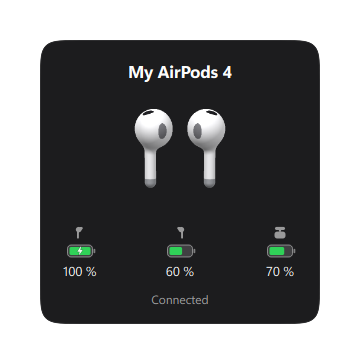
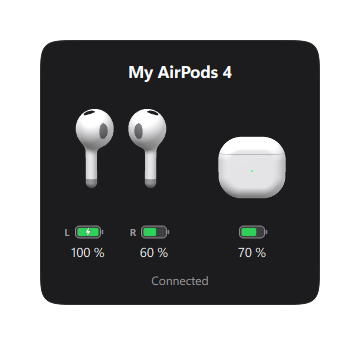
HUD: case beside the buds, each battery centred under its own picture
Like the iPhone popup: the buds on the left, the case on the right,
bottom-aligned, and under each its battery and percentage, centred. Split
buds show their two batteries side by side under the buds, with L / R
just left of each. The case is <name>_case.png from the HUD folder when
present, otherwise PodPop's own case render, front-on. The separate glyph
row is gone (the pictures say which is which); the card is 265 px tall.

diff --git a/src/podpop/ui/popup.py b/src/podpop/ui/popup.py
@@ -1,9 +1,10 @@
 """The battery HUD: a frosted dark card near the top of the screen.
 
-Top to bottom: the device name, the AirPods (they turn once as the card
-appears, then stay still), the batteries the way iOS groups them (the AirPods
-together, the case separately, each a horizontal battery with the bolt inside
-while charging), and the connection status. It sits just above the taskbar, fades in while rising 8 px, stays a
+Top to bottom: the device name; the AirPods on the left (they turn once as
+the card appears, then stay still) and the case on the right, like the iPhone
+popup; under each, centred, its battery (a horizontal battery with the bolt
+inside while charging, the percentage below; buds far apart get one each);
+and the connection status. It sits just above the taskbar, fades in while rising 8 px, stays a
 few seconds, and fades out the same way. There are no buttons; clicking the card connects the AirPods
 when they're not connected, and otherwise just closes it.
 
@@ -63,12 +64,13 @@ PADDING = (16, 20, 16, 18)  # left, top, right, bottom
 TITLE_PX = 17
 CLIP = 130  # the artwork's native size: drawn 1:1, never rescaled
 CLIP_MARGIN = (4, 10)  # above; below, to the battery row
-GLYPH = 13.0
 BOLT_PX = 9.0
 BATTERY_W, BATTERY_H, BATTERY_R = 25.0, 12.0, 3.5
 PERCENT_PX = 13
-GROUP_W = 64
-GROUP_GAP = 36
+GROUP_W = 52
+BUD_GROUP_GAP = 14  # between the L and R batteries when the buds are split
+CASE_W = 104  # the case's column, right of the 130 px buds
+ART_GAP = 14
 SPLIT_AT = 10  # buds further apart than this (in %) get a battery each, like iOS
 STATUS_PX = 12
 STATUS_GAP = 12
@@ -294,6 +296,7 @@ class _Card(QWidget):
         self.animate = True
         self._started = time.monotonic()
         self._spin = _Spin(self.update, self.spin_finished.emit)
+        self._case_art: QPixmap | None = None
         self._tick = QTimer(self, interval=33)  # drives the fallback model's single turn
         self._tick.timeout.connect(self._fallback_tick)
 
@@ -305,6 +308,8 @@ class _Card(QWidget):
     def set_view(self, view: DeviceView) -> None:
         if self.view is None or self.view.hud != view.hud:
             self._spin.load(hud.spin_for(view.hud), hud.still_for(view.hud))
+            case = hud.case_for(view.hud)
+            self._case_art = QPixmap(str(case)) if case is not None else None
         self.view = view
         self.update()
 
@@ -368,15 +373,28 @@ class _Card(QWidget):
         p.drawText(QRectF(PADDING[0], y, inner, TITLE_PX + 5), Qt.AlignmentFlag.AlignCenter, title)
         y += TITLE_PX + 5 + CLIP_MARGIN[0]
 
-        self._paint_clip(p, QRectF((w - CLIP) / 2, y, CLIP, CLIP))
+        groups = battery_groups(self.view)
+        case_group = next((g for g in groups if g.kind == "case"), None)
+        bud_groups = [g for g in groups if g.kind != "case"]
+        if case_group is not None:  # buds left, case right, the pair centred on the card
+            row_w = CLIP + ART_GAP + CASE_W
+            buds_box = QRectF((w - row_w) / 2, y, CLIP, CLIP)
+            case_box = QRectF(buds_box.right() + ART_GAP, y, CASE_W, CLIP)
+            self._paint_clip(p, buds_box)
+            self._paint_case(p, case_box)
+        else:
+            buds_box = QRectF((w - CLIP) / 2, y, CLIP, CLIP)
+            self._paint_clip(p, buds_box)
         y += CLIP + CLIP_MARGIN[1]
 
-        groups = battery_groups(self.view)
-        row_w = len(groups) * GROUP_W + (len(groups) - 1) * GROUP_GAP
-        x = (w - row_w) / 2
-        for group in groups:
+        # Each battery centred under its own artwork.
+        span = len(bud_groups) * GROUP_W + (len(bud_groups) - 1) * BUD_GROUP_GAP
+        x = buds_box.center().x() - span / 2
+        for group in bud_groups:
             self._paint_group(p, x + GROUP_W / 2, y, group)
-            x += GROUP_W + GROUP_GAP
+            x += GROUP_W + BUD_GROUP_GAP
+        if case_group is not None:
+            self._paint_group(p, case_box.center().x(), y, case_group)
         y += _battery_row_h() + STATUS_GAP
 
         p.setFont(_font(STATUS_PX, QFont.Weight.Normal))
@@ -400,11 +418,24 @@ class _Card(QWidget):
         elif self.view.family is Family.HEADPHONES:
             paint_headphones(p, box.adjusted(18, 22, -18, -22), DARK)
 
-    def _paint_group(self, p: QPainter, cx: float, top: float, group: BatteryGroup) -> None:
-        glyph_w = GLYPH * (1.55 if group.kind == "pair" else 1.0)
-        _paint_glyph(p, QRectF(cx - glyph_w / 2, top, glyph_w, GLYPH), group.kind)
+    def _paint_case(self, p: QPainter, box: QRectF) -> None:
+        """The case beside the buds: your ``<name>_case.png`` if there is one, else PodPop's own, front-on."""
+        image = self._case_art
+        if image is None:
+            sprites = turntable.frames(self.view.family, "case")
+            image = sprites[0] if sprites else None
+        if image is None or image.isNull():
+            return
+        # Bottom-aligned with the buds, a little narrower than its column so it sits like iOS.
+        scale = min((box.width() - 6) / image.width(), (box.height() * 0.62) / image.height())
+        w, h = image.width() * scale, image.height() * scale
+        target = QRectF(box.center().x() - w / 2, box.bottom() - h - box.height() * 0.08, w, h)
+        p.drawPixmap(target, image, QRectF(image.rect()))
 
-        battery = QRectF(cx - BATTERY_W / 2, top + GLYPH + 6, BATTERY_W, BATTERY_H)
+    def _paint_group(self, p: QPainter, cx: float, top: float, group: BatteryGroup) -> None:
+        battery = QRectF(cx - BATTERY_W / 2, top, BATTERY_W, BATTERY_H)
+        if group.kind in ("left", "right"):  # split buds: say which is which, just left of the battery
+            _paint_side_label(p, QRectF(battery.left() - 14, battery.top() - 2, 11, BATTERY_H + 4), group.kind)
         _paint_battery(p, battery, group.level, group.charging)
 
         p.setFont(_font(PERCENT_PX, QFont.Weight.Medium))
@@ -438,50 +469,16 @@ def _rounded(rect: QRectF, radius: float) -> QPainterPath:
     return path
 
 
-def _battery_row_h() -> float:
-    return GLYPH + 6 + BATTERY_H + 5 + PERCENT_PX + 4
-
-
-def _paint_glyph(p: QPainter, r: QRectF, kind: str) -> None:
-    """13 px silhouettes in the spirit of SF Symbols' airpods / airpods.chargingcase.
-
-    Bud: a slim stem under a small bulb, the ear nozzle pointing up and out
-    (up-right for the left bud, mirrored for the right). Case: a rounded
-    square base with its lid lifted above it, seen from the front.
-    """
-    if kind == "pair":  # two buds side by side, nozzles facing each other
-        half = r.width() / 2
-        _paint_glyph(p, QRectF(r.left(), r.top(), half, r.height()), "left")
-        _paint_glyph(p, QRectF(r.left() + half, r.top(), half, r.height()), "right")
-        return
+def _paint_side_label(p: QPainter, r: QRectF, kind: str) -> None:
     p.save()
-    p.translate(r.topLeft())
-    p.scale(r.width() / 13.0, r.height() / 13.0)  # drawn on a 13 x 13 grid
-    p.setPen(Qt.PenStyle.NoPen)
-    p.setBrush(GLYPH_COLOR)
-    if kind == "headphones":
-        band = QPainterPath(QPointF(2.6, 7.5))
-        band.cubicTo(2.6, 0.6, 10.4, 0.6, 10.4, 7.5)
-        p.strokePath(band, QPen(GLYPH_COLOR, 1.5))
-        p.drawRoundedRect(QRectF(1.0, 6.4, 3.4, 5.8), 1.4, 1.4)
-        p.drawRoundedRect(QRectF(8.6, 6.4, 3.4, 5.8), 1.4, 1.4)
-    elif kind == "case":
-        p.drawRoundedRect(QRectF(1.0, 5.6, 11.0, 6.9), 2.6, 2.6)  # base
-        lid = QPainterPath()
-        lid.addRoundedRect(QRectF(1.4, 0.9, 10.2, 3.1), 1.5, 1.5)  # lid, lifted open
-        p.drawPath(lid)
-        p.fillRect(QRectF(5.4, 4.0, 2.2, 1.6), GLYPH_COLOR)  # the hinge joining them
-    else:
-        if kind == "right":
-            p.translate(13.0, 0)
-            p.scale(-1, 1)
-        bud = QPainterPath()
-        bud.addEllipse(QPointF(5.2, 3.6), 2.9, 2.7)  # bulb
-        bud.addEllipse(QPointF(7.9, 2.2), 1.45, 1.3)  # nozzle, up and out
-        bud.addRoundedRect(QRectF(3.5, 4.2, 1.9, 8.4), 0.95, 0.95)  # stem
-        bud.setFillRule(Qt.FillRule.WindingFill)
-        p.drawPath(bud)
+    p.setFont(_font(10, QFont.Weight.DemiBold))
+    p.setPen(GLYPH_COLOR)
+    p.drawText(r, Qt.AlignmentFlag.AlignCenter, "L" if kind == "left" else "R")
     p.restore()
+
+
+def _battery_row_h() -> float:
+    return BATTERY_H + 5 + PERCENT_PX + 4
 
 
 def _paint_bolt(p: QPainter, r: QRectF) -> None:

diff --git a/src/podpop/ui/hud.py b/src/podpop/ui/hud.py
@@ -7,6 +7,8 @@ from source; that folder is git-ignored), named after the model:
     airpodsPro_spin.webp    one full turn, played once when the card appears
     airpodsPro_still.png    shown for the rest of the card's life (optional:
                             without it the spin's last frame stays up)
+    airpodsPro_case.png     the case, shown beside the buds (optional:
+                            without it PodPop draws its own)
 
 The name comes from the model (catalog.DeviceModel.hud): ``airpods``,
 ``airpodsGen3``, ``airpodsGen4``, ``airpodsPro``, ``airpodsPro3``,
@@ -37,6 +39,11 @@ def spin_for(name: str) -> Path | None:
 
 def still_for(name: str) -> Path | None:
     return _find(name, "_still", (".png", ".webp"))
+
+
+def case_for(name: str) -> Path | None:
+    """Optional picture of the case, shown beside the buds."""
+    return _find(name, "_case", (".png", ".webp"))
 
 
 def _find(name: str, suffix: str, extensions: tuple[str, ...]) -> Path | None:
